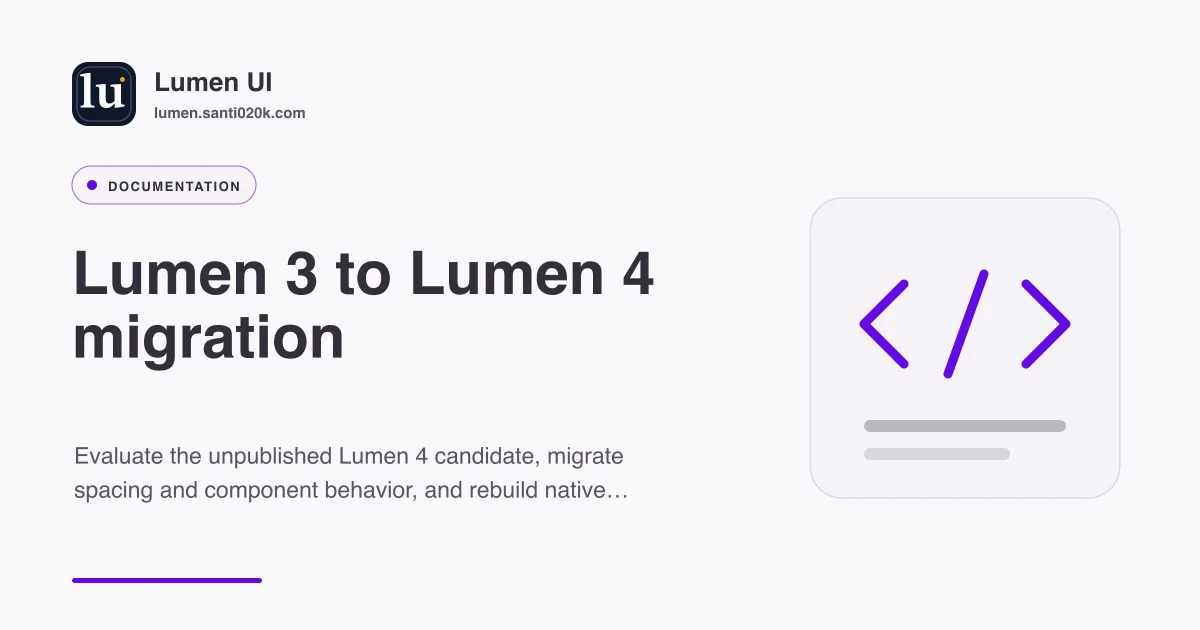
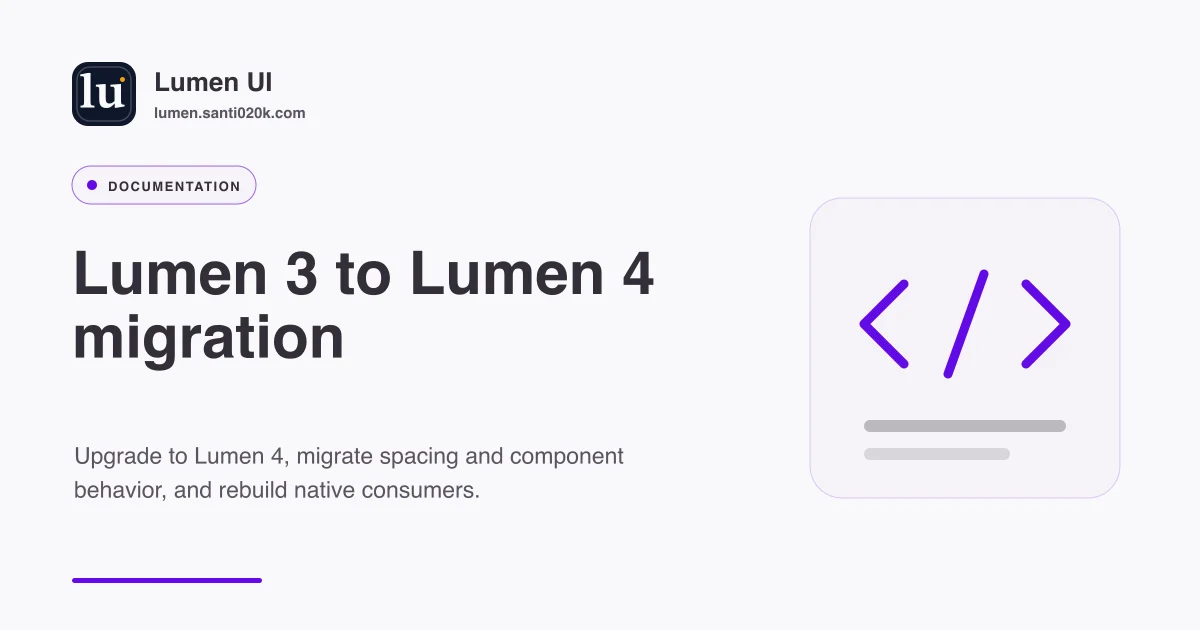
docs(release): refresh guidance for lumen 4.1

Changed region(s): [[0.0617, 0.6937, 0.5242, 0.8143]]

diff --git a/apps/docs/src/data/docs.ts b/apps/docs/src/data/docs.ts
@@ -1684,7 +1684,10 @@ const apiReferenceByComponent = {
   ],
   DatePicker: [
     apiRow(
-      'value, defaultValue', 'ISO date string (YYYY-MM-DD)', '-', 'Sets the selected date while the trigger shows a localized, human-readable value.'
+      'aria-invalid, aria-describedby, aria-errormessage', 'native input ARIA attributes', '-', 'Mirrored to the visible trigger. Astro and Elements track later attribute changes; application errors retain precedence.'
+    ),
+    apiRow(
+      'value, defaultValue', 'ISO date string (YYYY-MM-DD)', '-', 'Sets the selected date while the trigger shows a localized, human-readable value. React reopens the calendar on the selected month.'
     ),
     apiRow(
       'min, max', 'ISO date string (YYYY-MM-DD)', '-', 'Disables dates and month navigation outside the allowed range.'
@@ -1693,7 +1696,7 @@ const apiReferenceByComponent = {
       'placeholder', 'string', '"Choose a date"', 'Labels the trigger before a date is selected.'
     ),
     apiRow(
-      'UIPrimitives', 'Astro runtime', 'required', 'Enhances the form-backed input into the custom Calendar popover. React and registered Elements provide equivalent behavior.'
+      'UIPrimitives', 'Astro runtime', 'required', 'Enhances the form-backed input into a floating Calendar popover that follows scroll and resize and uses the top layer when supported. React and registered Elements provide equivalent behavior.'
     )
   ],
   Dialog: [
@@ -1945,6 +1948,9 @@ const apiReferenceByComponent = {
     )
   ],
   InputOTP: [
+    apiRow(
+      'onPaste', 'React clipboard event handler', '-', 'Calling preventDefault cancels Lumen paste handling. Otherwise sanitized paste invokes onChange and onValueChange once, including controlled and form-controller values.'
+    ),
     apiRow(
       'autocomplete', 'HTML autocomplete value', '"one-time-code"', 'Hints that password managers and mobile keyboards can offer one-time code autofill.'
     ),
@@ -2980,6 +2986,15 @@ const apiReferenceByComponent = {
     )
   ],
   ListBox: [
+    apiRow(
+      'label, aria-label, aria-labelledby', 'string', '-', 'Names the single accessible visible list. External labels targeting or wrapping the native select also name it; explicit ARIA names take precedence.'
+    ),
+    apiRow(
+      'required, aria-invalid, aria-describedby, aria-errormessage', 'native select attributes', '-', 'Forwarded to the visible list. Required single selection stays invalid until a choice is made; native validation focuses the list. Consumer aria-invalid wins.'
+    ),
+    apiRow(
+      'onFocus, onBlur', 'React select focus event handlers', '-', 'Fire once when focus enters or leaves the visible list, with the native HTMLSelectElement event target and form name.'
+    ),
     apiRow(
       'options', 'Array<string | { label, value, disabled?, section? }>', '[]', 'Defines options and optional accessible sections.'
     ),

diff --git a/docs/migrating-v3-to-v4.md b/docs/migrating-v3-to-v4.md
@@ -1,9 +1,9 @@
 # Migrating from Lumen 3 to Lumen 4
 
-This guide targets the local `release/v4.0.0` candidate, using `v3.0.1` as the Swift API baseline.
-V4 is unpublished and its contract is still draft. These instructions describe the checked-in
-candidate, not a completed production release. Review the [readiness record](lumen-4-readiness.md)
-and [v4 contract](../registry/lumen-4-contract.json) before choosing a release revision.
+This guide covers the released Lumen 4 contracts, using `v3.0.1` as the Swift API baseline.
+Use the [release manifest](../registry/release-manifest.json) for current package versions and
+the [v4 contract](../registry/lumen-4-contract.json) for the original major-version migration.
+Applications already on v4 can start with the [v4.1 highlights](lumen-4.1.md).
 
 ## Upgrade the dependencies
 
@@ -11,13 +11,12 @@ and [v4 contract](../registry/lumen-4-contract.json) before choosing a release r
 2. Update only the adapters and companion packages your application uses. Do not install every
    adapter. Keep their versions aligned with the [release manifest](../registry/release-manifest.json),
    including direct core, token, icon, template, form-integration, and MCP dependencies when used.
-3. Before publication, evaluate built local packages or tarballs from one reviewed candidate
-   revision. Native consumers must use that same revision or locally built artifacts. Do not
-   assume `@4`, Swift tag `v4.0.0`, or Maven artifacts exist because manifests say `4.0.0`.
-4. After v4 publication, update your existing dependencies to the published v4 versions, resolve
-   their peer requirements, commit lock files, and rebuild the actual consumer.
+3. Use published packages and release tags for production adoption. When evaluating unreleased
+   changes, use local packages or tarballs from one reviewed revision instead.
+4. Resolve peer requirements, commit lock files, and rebuild the actual consumer. Use the
+   manifest's individual native pins rather than assuming every artifact has the web version.
 
-For example, **only after publication**, an Astro application's adapter update is:
+For example, an Astro application's adapter update is:
 
 ```bash
 pnpm add @santi020k/lumen-astro@4
@@ -130,8 +129,8 @@ Card no longer clips overflow. Move media clipping into AspectRatio, keeping Ima
 inside that rounded frame. Verify custom menus and focus rings rather than restoring card-wide
 clipping. Wrapping Stack actions now allow long labels to wrap inside their available width.
 
-Before publication, rollback is reverting this candidate commit or continuing to use released v3
-packages. After publication, use a new version for corrections; do not move published tags.
+For rollback, restore the application's prior dependency pins and source changes, then rebuild.
+Published library corrections require a new version; do not move published tags.
 
 ## Before/after consumer examples
 
@@ -254,8 +253,8 @@ by these source/API migrations.
 ## Component behavior checklist
 
 Lumen 4 consolidates fixes from twenty consumer audits. Upgrade the adapter and its companion
-packages together, import the matching stylesheet, and rebuild native consumers. The v4 branch
-is a local release candidate; published projects in the showcase still use their deployed versions.
+packages together, import the matching stylesheet, and rebuild native consumers. Published
+projects in the showcase still use their own deployed versions.
 
 | Surface | Required review |
 | --- | --- |
@@ -383,9 +382,8 @@ existing root imports remain supported. Adopt it only when its exported catalog 
 
 If validation fails, restore the prior application commit and its manifests/lock files, reinstall
 v3 dependencies, and rebuild all targets. Keep any application data changes separate from this UI
-upgrade so rollback does not require reversing persisted data. Before publication, candidate
-corrections can be ordinary commits; after publication, corrections require a new version and
-must not replace a published tag.
+upgrade so rollback does not require reversing persisted data. Published library corrections
+require a new version and must not replace a published tag.
 
 For a starting v2 application, first complete [v2 → v3](migrating-v2-to-v3.md).
 

diff --git a/docs/lumen-4.1.md b/docs/lumen-4.1.md
@@ -1,0 +1,58 @@
+## Lumen 4.1 highlights
+
+Lumen 4.1 improves loading feedback, form accessibility, and pages that combine web adapters.
+Existing v4 applications can keep their integration setup and update the packages they use.
+Applications upgrading from v3 should first follow the
+[v3 → v4 migration guide](https://lumen.santi020k.com/docs/migrations/v3-to-v4).
+
+### Loading feedback
+
+Skeleton now accepts `shape` (`rectangle`, `text`, `circle`), `width`, `height`, and `animation`
+(`shimmer`, `pulse`, `none`). Numeric dimensions are pixels; supported CSS lengths, percentages,
+and `calc()` or `var()` expressions are accepted. Reduced motion stops shimmer and pulse.
+Skeleton and Spinner are decorative unless named; explicit ARIA overrides take precedence.
+Give a group of placeholders one named status region rather than announcing every placeholder.
+Progress normalizes non-finite values to finite ARIA values, and Elements Skeleton and Progress
+render as blocks. Review layouts that depended on their previous inline display.
+
+### Forms and floating calendars
+
+- ListBox exposes one accessible control while retaining native select submission and validation.
+  External labels name the visible list, required single selection stays invalid until a choice is
+  made, and invalid submission focuses the list. React focus and blur callbacks fire once when
+  entering or leaving the visible list; the event target remains the native select.
+- DatePicker calendars escape clipping in short or scrolling dialogs through shared floating
+  placement when the Popover API is available. Triggers mirror consumer validation ARIA attributes.
+  React reopens on the selected month; Astro preserves an open calendar when only ARIA feedback changes.
+- React InputOTP paste reports the sanitized code once through its change callbacks and respects
+  a consumer `onPaste` handler that calls `preventDefault()`. Controlled values and React Hook Form
+  controllers receive the pasted code without duplicate notifications.
+- Select and NativeSelect chevrons follow inherited RTL direction, including nested LTR regions.
+
+### Mixed web adapters
+
+React DatePicker, Calendar, and InputOTP mark their roots with `data-ui-owner="react"`.
+Astro and Elements enhancers skip these roots, preserving React state, IDs, and label associations
+before and after hydration. Keep each adapter's normal setup; do not remove this ownership marker
+or manually enhance a React-owned root.
+
+### Versions and verification
+
+Use the individual versions in the
+[release manifest](https://github.com/santi020k/lumen/blob/main/registry/release-manifest.json).
+The v4.1 release uses 4.1.0 for the main web packages and MCP, 4.0.1 for React Native and
+React Hook Form, and 4.0.0 for tokens, brand icons, and Compose. Swift uses tag `v4.1.0`.
+Store apps and hosted agent tools follow their own publication schedules.
+
+After updating, load the matching styles, commit the lock file, and verify the application’s loading
+layout, required ListBox submission, keyboard focus, date calendars inside dialogs, and OTP paste.
+For rollback, restore the application's prior source and dependency pins and rebuild; no data
+migration is required by these library changes.
+
+Read the package histories for the complete adapter-specific changes:
+[Astro](https://github.com/santi020k/lumen/blob/main/packages/astro/CHANGELOG.md),
+[React](https://github.com/santi020k/lumen/blob/main/packages/react/CHANGELOG.md),
+[Elements](https://github.com/santi020k/lumen/blob/main/packages/elements/CHANGELOG.md),
+[Core](https://github.com/santi020k/lumen/blob/main/packages/core/CHANGELOG.md),
+[React Hook Form](https://github.com/santi020k/lumen/blob/main/packages/react-hook-form/CHANGELOG.md),
+and [React Native](https://github.com/santi020k/lumen/blob/main/packages/react-native/CHANGELOG.md).

diff --git a/docs/form-controls.md b/docs/form-controls.md
@@ -57,6 +57,50 @@ Use a visible label associated with the focusable input or trigger. Elements hos
 native inputs can have distinct IDs; follow the package's documented association contract. Keep
 required, disabled, read-only, and error descriptions consistent with visible copy.
 
+## ListBox accessibility and validation
+
+Enhanced Astro and Elements ListBox and React ListBox expose one accessible control: the visible
+list. The native select retains submission and validity but leaves the tab order and accessibility
+tree. Labels targeting or wrapping the select name the list; explicit `aria-labelledby` and
+`aria-label` take precedence. Label clicks and native select focus move focus to the visible list.
+Descriptions, required state, and consumer validation ARIA attributes reach that list.
+
+An unselected required single ListBox remains invalid until an option is chosen. Native validation
+marks and focuses the visible list when it is the first invalid control. Consumer `aria-invalid`
+takes precedence over Lumen-generated validity feedback. An accepted reset clears generated
+invalid feedback; a canceled reset preserves it and the current selection.
+
+React ListBox `onFocus` and `onBlur` fire once when focus enters or leaves the visible list.
+Their event target remains the `HTMLSelectElement`, including its form name, so existing form
+integrations retain their native event contract. `LumenListBoxController` validates once on blur.
+
+## DatePicker feedback and placement
+
+The visible trigger mirrors `aria-invalid`, `aria-describedby`, and `aria-errormessage` from the
+input. Astro and Elements also track later native input attribute changes. Generated native
+validation feedback clears after valid values, relevant constraint changes, or accepted resets;
+explicit application errors remain application-owned. Astro keeps an open calendar and focused
+day when only input ARIA feedback changes. React reopens on the currently selected month.
+
+Calendars use shared floating placement and enter the top layer when the Popover API is available,
+avoiding clipping inside scrolling dialogs. Older browsers retain fixed placement. Verify scroll,
+resize, Escape, and dialog dismissal in the application's supported browsers.
+
+## React InputOTP paste
+
+`InputOTP` paste reports the sanitized code once to consumer `onChange` and `onValueChange`
+callbacks, including controlled values and React Hook Form controllers. `useInputOTP` also
+notifies `onValueChange` once per input. A consumer `onPaste` handler can call `preventDefault()`
+to cancel Lumen's paste handling. Uncontrolled InputOTP retains typed digits without requiring
+an `onValueChange` callback.
+
+## Mixed web adapters
+
+React DatePicker, Calendar (including `useCalendar` roots), and InputOTP render
+`data-ui-owner="react"`. Astro and Elements enhancers skip those roots, preserving React IDs,
+label associations, and state across hydration. Retain the marker when composing custom roots;
+use each adapter's documented initialization rather than enhancing the same control twice.
+
 ## Verification coverage
 
 The web package suites cover controlled/uncontrolled values, canceled and accepted resets, pending

diff --git a/README.md b/README.md
@@ -35,9 +35,9 @@ shared tokens and explicit component contracts.
 
 **Explore:** [Quick start](#web-quick-start) · [Native apps](#native-playgrounds) · [Templates](#dashboards-and-templates) · [AI and Figma](#ai-and-design-workflows) · [Packages](#packages) · [Repository apps](#repository-apps) · [Contributing](#contributing)
 
-> **Lumen 4 candidate:** This branch documents the upcoming major version. The npm badge reports
-> the published version; local examples and store builds may differ. See the
-> [migration and readiness notes](#lumen-4-candidate) before upgrading.
+> **Lumen 4.1:** See the [release highlights](docs/lumen-4.1.md) for loading, form, and
+> mixed-framework improvements. Follow the [migration guide](docs/migrating-v3-to-v4.md) when
+> upgrading from v3. Package versions and store builds follow their own release schedules.
 
 ## See Lumen in action
 
@@ -222,7 +222,7 @@ or choose a native gallery:
 
 See the [playground workflow](./docs/playgrounds.md) for a platform chooser, reference-app source,
 and run, capture, and distribution commands. Store builds follow their own release schedule and
-may differ from the current repository candidate.
+may differ from the current repository version.
 
 ## Appearance presets
 
@@ -330,13 +330,13 @@ Each app has its own setup, source map, and verification guidance:
 | [Motion studio](apps/motion/README.md) | Reusable product films and local video exports |
 | [Store artwork](apps/store-assets/README.md) | Canonical SVG sources for the playground app icons |
 
-## Lumen 4 candidate
+## Lumen 4
 
-The v4 release branch brings consumer-driven date selection, chart readability, clipboard feedback,
+Lumen 4 brings consumer-driven date selection, chart readability, clipboard feedback,
 loading states, native layout improvements and a new ImageComparison primitive. Start with the
 [v3 → v4 migration guide](docs/migrating-v3-to-v4.md), [consumer audit](docs/lumen-4-consumer-audit.md),
-and [local readiness record](docs/lumen-4-readiness.md). The refreshed community gallery includes
-published consumer screenshots; it does not imply those applications already run this candidate.
+and [v4.1 release highlights](docs/lumen-4.1.md). The community gallery includes published consumer
+screenshots; it does not imply those applications already run the current release.
 
 For existing applications, start with [v1 → v2](docs/migrating-v1-to-v2.md) when needed, then
 [v2 → v3](docs/migrating-v2-to-v3.md) before

diff --git a/docs/cross-platform.md b/docs/cross-platform.md
@@ -83,11 +83,10 @@ platform mappings, accessibility requirements, and contribution checks.
 ## Native support policy
 
 The shared token foundation and the React Native, SwiftUI, Jetpack Compose, and Wear OS component
-contracts received their Supported classification in Lumen 2. The current Lumen 4 candidate
-requires a fresh review of its changed baselines and migration guide; that classification is not
-evidence of v4 publication or qualification. Package, migration, build, security, published-artifact,
-and two-release stability checks gate the initial publication. External-consumer and
-physical-device evidence remains visible as post-release qualification work. Breaking changes
+contracts received their Supported classification in Lumen 2. For Lumen 4, review the changed
+baselines and migration guide; that classification alone does not prove consumer qualification.
+Package, migration, build, security, published-artifact, and stability checks remain release gates.
+External-consumer and physical-device evidence remains visible as post-release qualification work. Breaking changes
 require release notes and a practical migration path.
 
 A native adapter enters version 2 after it has:

diff --git a/docs/migrating-to-lumen.md b/docs/migrating-to-lumen.md
@@ -85,7 +85,7 @@ Use the guide for your starting version:
 
 - [Lumen 1 → 2](migrating-v1-to-v2.md): source migration, removed aliases, and Swift enum additions.
 - [Lumen 2 → 3](migrating-v2-to-v3.md): coordinated package updates and Swift icon switches.
-- [Lumen 3 → 4](migrating-v3-to-v4.md): the unpublished v4 candidate, spacing changes,
+- [Lumen 3 → 4](migrating-v3-to-v4.md): spacing changes,
   component behavior, native signatures, and consumer verification.
 
 When skipping major versions, complete and verify each step in order. The `lumen migrate v2`
@@ -94,7 +94,8 @@ command migrates v1 contracts to v2; it does not automate either later upgrade.
 ### Migrating from version 3 to version 4
 
 See the [dedicated v3 → v4 migration guide](migrating-v3-to-v4.md). It includes the content-flow
-spacing map, component review checklist, native API changes, and candidate installation policy.
+spacing map, component review checklist, native API changes, and package installation guidance.
+For applications already on v4, read the [v4.1 highlights](lumen-4.1.md).
 
 ### Migrating from version 2 to version 3
 

diff --git a/docs/ai-usage.md b/docs/ai-usage.md
@@ -3,9 +3,10 @@
 Use this guide when an AI agent is building an app with Lumen or updating examples that teach
 another agent how to use the library.
 
-This branch documents the locally prepared Lumen 4 candidate. Version 4 install examples become
-usable after publication; the public plugin and hosted MCP still describe their deployed version.
-Use the workspace packages and generated local MCP snapshot to evaluate this candidate.
+Lumen 4 is released. See the [v4.1 highlights](lumen-4.1.md) and use the
+[release manifest](../registry/release-manifest.json) for each package's version; companion packages
+do not all share the umbrella version. The public plugin and hosted MCP describe their deployed
+snapshot, which can differ from this checkout. Inspect snapshot metadata before using its contracts.
 
 ## Install in ChatGPT or Codex
 
